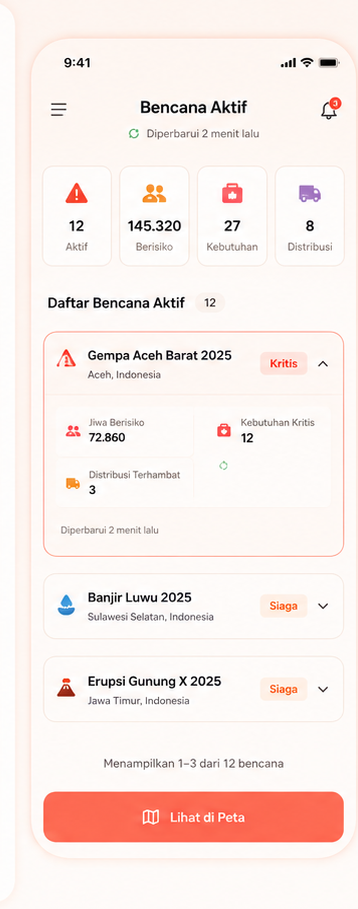
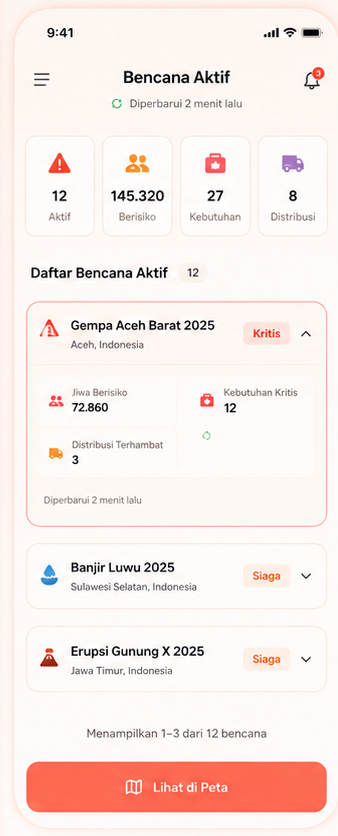
Mock up HP: potongan gambar HP dibuat ulang per gambar (bingkai HP utuh, tanpa sisa desktop)

diff --git a/pages/mockup.html b/pages/mockup.html
@@ -367,7 +367,7 @@
   </main>
 </div>
 
-<script src="../assets/js/mockup.js?v=fix-20260820b"></script>
+<script src="../assets/js/mockup.js?v=crop-20261019"></script>
 <script src="../assets/js/rn-public-header.js?v=installapp-20260926"></script>
 <script src="../assets/js/rn-layout-mode.js?v=noscrollbar-20260905"></script>
 <script src="../assets/js/rn-pwa.js?v=pwa-20260926b"></script>

diff --git a/assets/js/mockup.js b/assets/js/mockup.js
@@ -26,7 +26,7 @@ const MOCKUP_ITEMS = [
   // only the phone portion. "mobile" is already an HP-only compilation.
   hpImage: key === "mobile"
     ? `../assets/img/mockup/${file}`
-    : `../assets/img/mockup/hp/${file}`,
+    : `../assets/img/mockup/hp/${file}?v=crop-20261019`,   // re-cropped per image (phone frame only)
   file
 }));
 

diff --git a/HANDOVER.md b/HANDOVER.md
@@ -190,3 +190,4 @@ Owner answers to the questions (2026-09-26), implemented:
 - **Perbaikan menu HP (2026-10-19, owner):** peta Leaflet menembus menu → `.leaflet-container{isolation:isolate;z-index:0}` (rn-mobile-drawer.css, semua halaman ber-peta). Daftar "Bencana Aktif → Control Centre" dipindah ke paling atas menu dan langsung tampil dari daftar terakhir di HP (`localStorage rn_active_disasters_menu_v1`), lalu diperbarui dari server; offline tetap tampil.
 - **Menu HP dirapikan (2026-10-19, owner):** urutan = Login → menu utama seperti header (rata kiri) → grup tertutup "Bencana Aktif" (Semua bencana aktif + tiap bencana → Control Centre, daftar instan dari cache HP) → Posko / Donasi & Program Khusus / Modul / Pengaturan (semua tertutup, akordeon satu-terbuka). Pemilih bencana disembunyikan di menu HP; link "Bencana Aktif" biasa disembunyikan (inline !important, karena aturan `.sidebar nav a{display:flex!important}`). Home: Login di atas, + Install App, jarak 80px `html.rn-external-access .sidebar nav` dibatalkan untuk menu publik. Peta tidak menembus menu (`.leaflet-container{isolation:isolate}`). Diverifikasi screenshot puppeteer (zenika/alpine-chrome:with-puppeteer di VM; skrip /tmp/shot/shotmenu.js mengetuk ☰). Home tidak punya grup Posko dkk (Home tanpa sidebar operasional).
 - **Grup operasional di menu HP semua halaman (2026-10-19, owner):** `window.RNNav.groupsHtml(prefix)` (rn-navigation-v2.js) + `mountOperationalGroups` (rn-mobile-drawer.js) — halaman tanpa sidebar operasional (Home, Laporan Masyarakat, Install, Scan, dll.) memuat rn-icons + rn-navigation-v2 secara dinamis dan menampilkan grup Posko / Donasi & Program Khusus / Modul / Pengaturan (tertutup) di menu HP. Home memakai prefiks `pages/`.
+- **Potongan mock up HP dirapikan (2026-10-19, owner):** 18 gambar `assets/img/mockup/hp/*.png` dipotong ulang per gambar (kotak bingkai HP dibaca dari lembar kontak bergrid, margin 5 px) — sebelumnya satu kotak tetap 358×909 untuk semua sehingga ada sisa panel desktop di kiri dan bingkai terpotong. `mockup.js` memberi `?v=crop-20261019` pada gambar HP. Gambar asli (desktop+HP) tidak diubah; beberapa HP memang terpotong di gambar sumber (atas/bawah).
